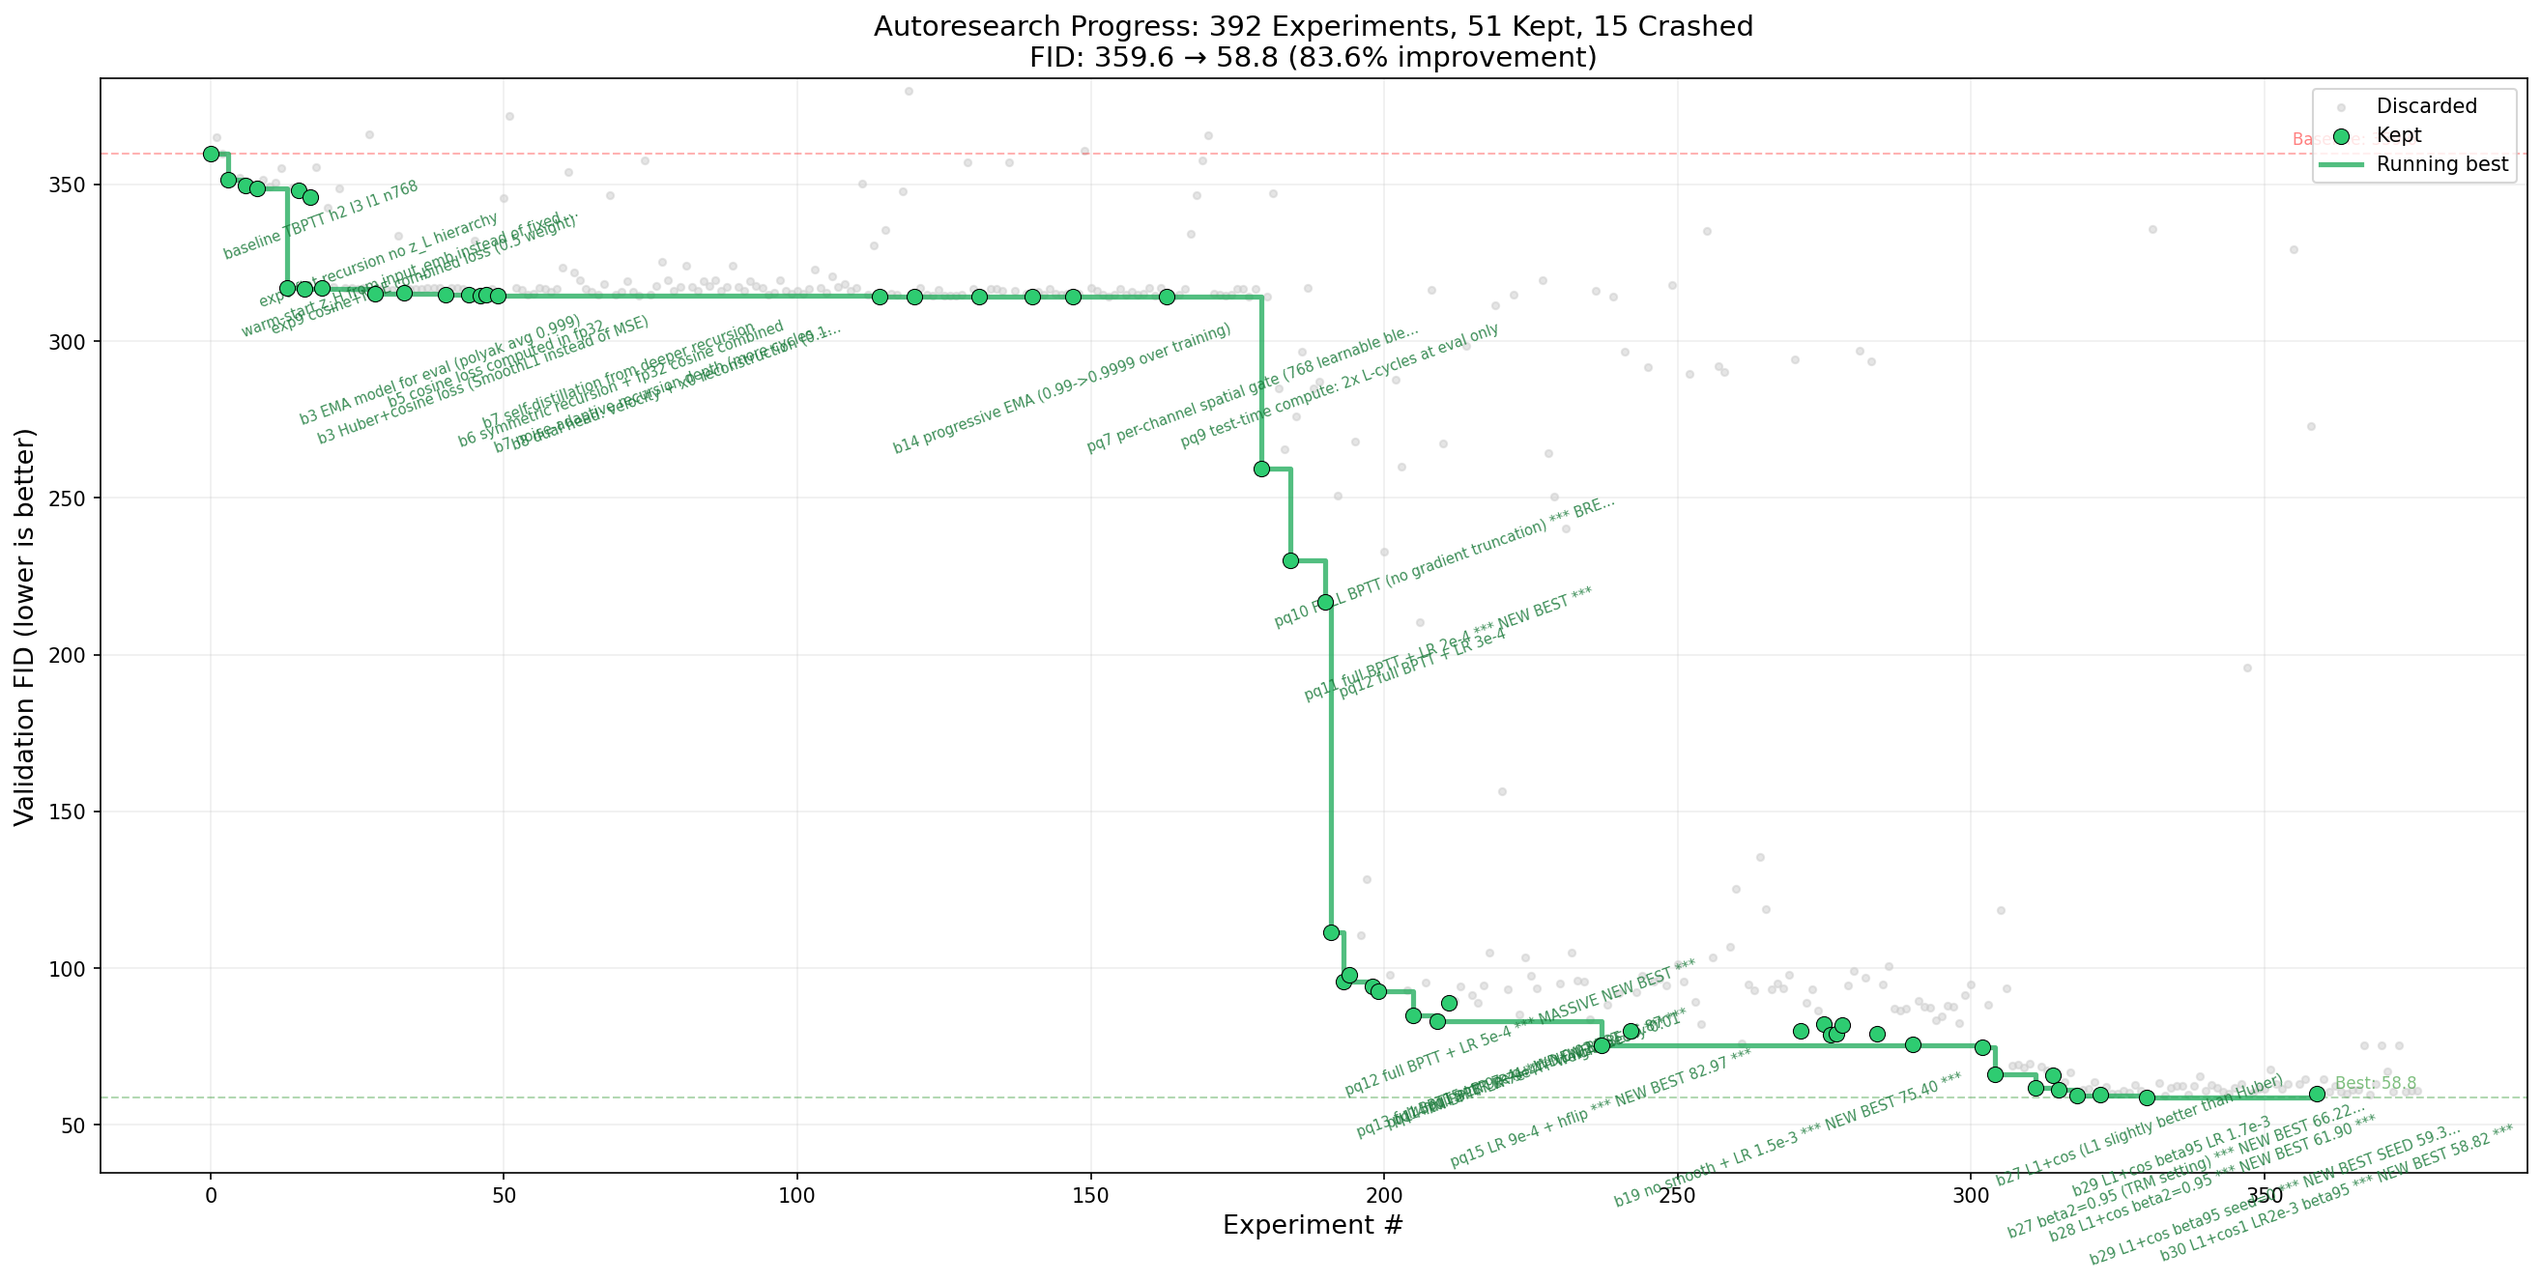
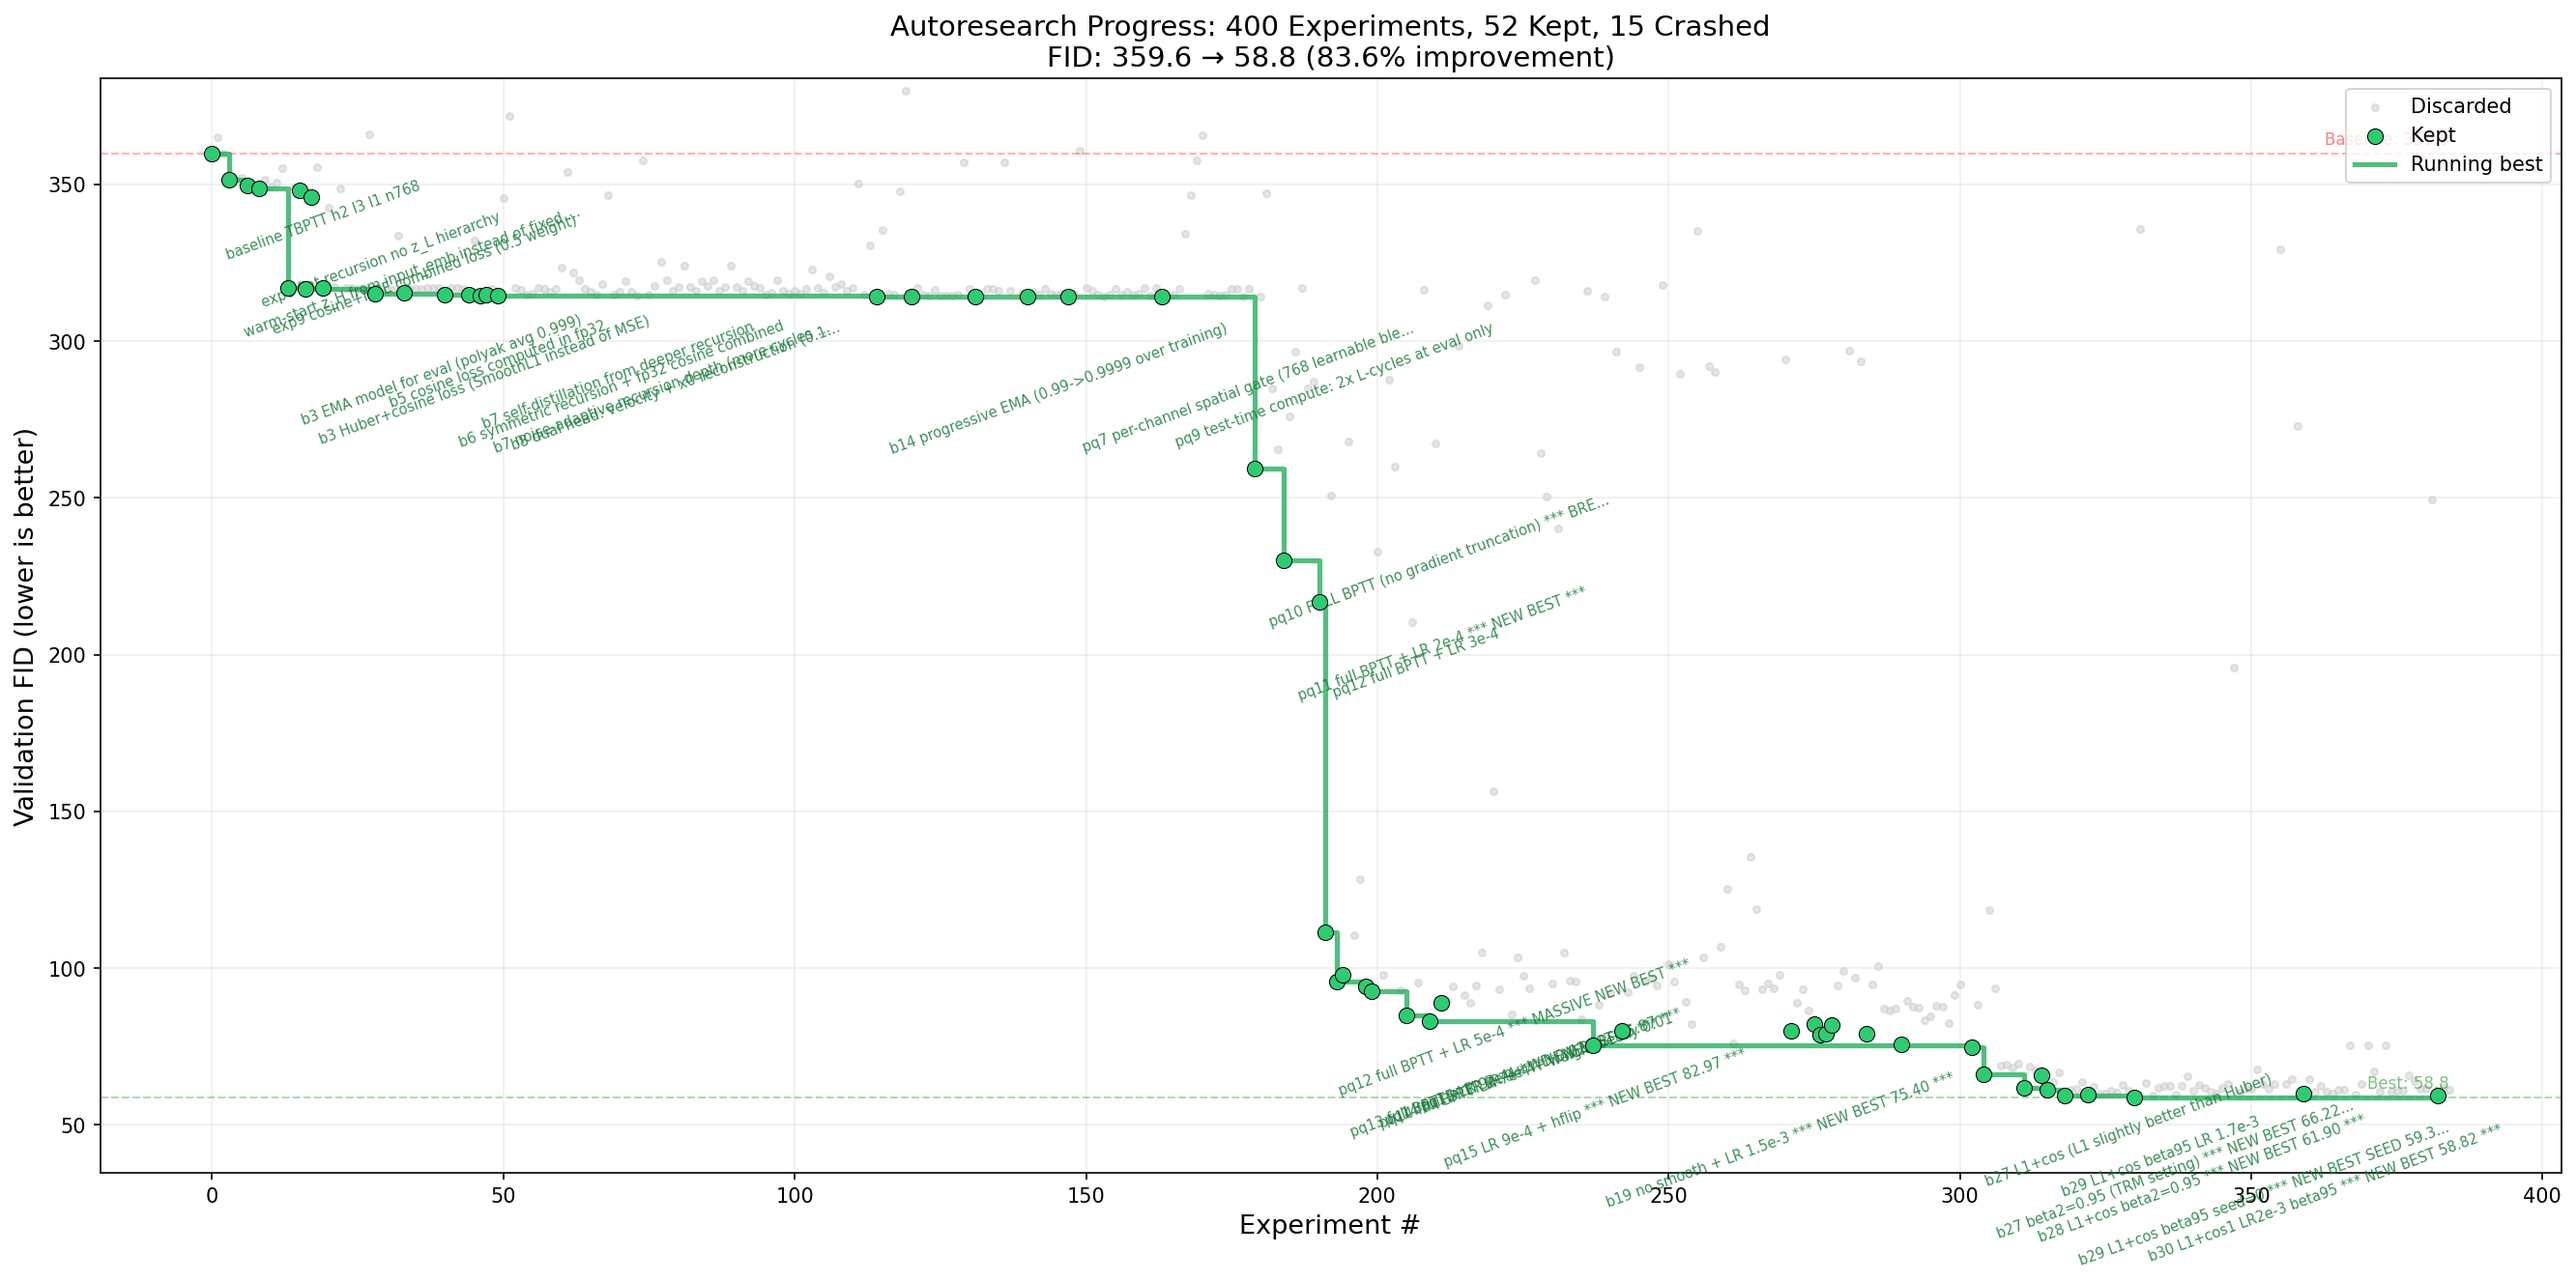
400 experiments: remove hflip (simplification, same FID 59.27). Learned pos embed essential. Best: 58.82.

diff --git a/train.py b/train.py
@@ -1072,9 +1072,7 @@ while True:
                 batch_size = x.shape[0]
                 t = torch.rand(batch_size, device=x.device)
                 x_t, velocity = flow_matching.forward_sample(x, t)
-                # Random horizontal flip augmentation
-                if torch.rand(1).item() < 0.5:
-                    x_t = x_t.flip(3); velocity = velocity.flip(3); x = x.flip(3)
+                # (hflip removed — not needed at optimal LR+beta2)
                 pred = model(x_t, t, class_labels=y)
                 huber = F.l1_loss(pred, velocity)
                 cos = 1.0 - F.cosine_similarity(pred.flatten(1).float(), velocity.flatten(1).float(), dim=1).mean()
